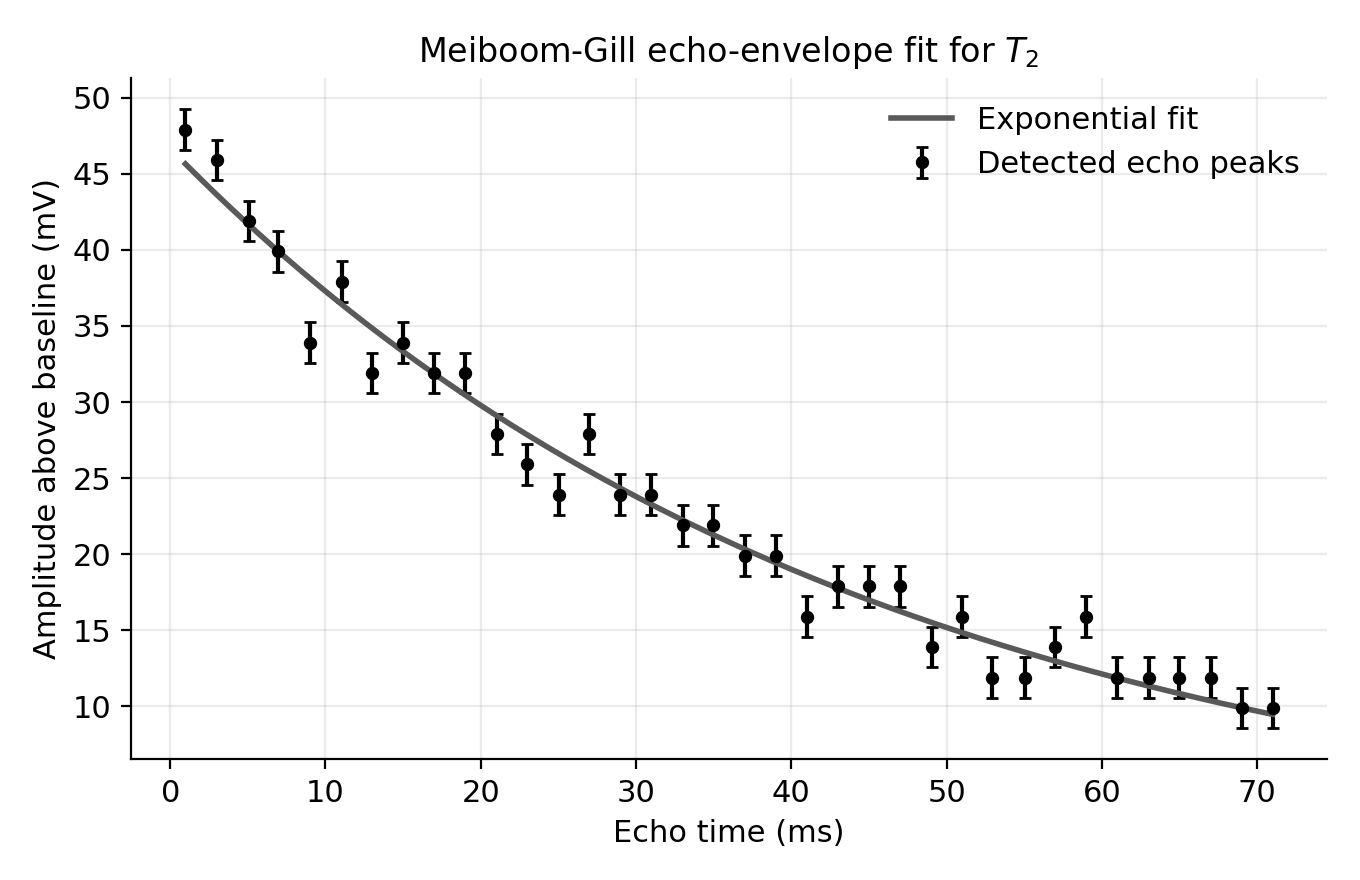
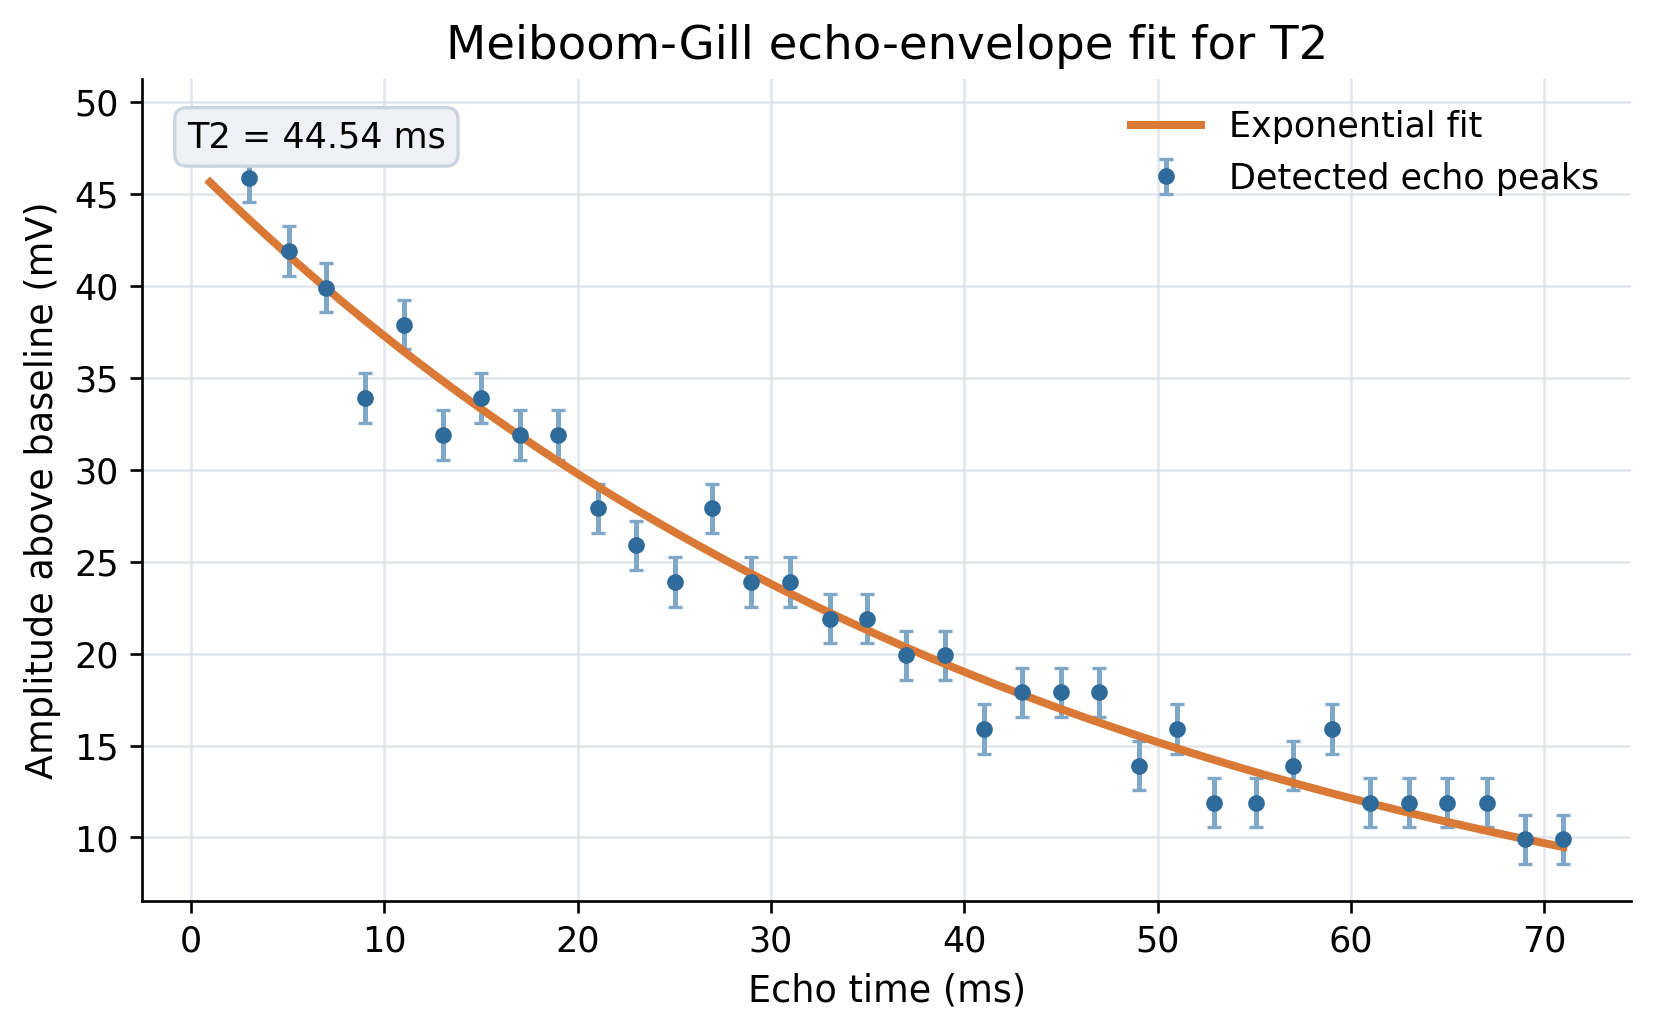
Polish README analysis figures

diff --git a/src/pnmr_showcase/plotting.py b/src/pnmr_showcase/plotting.py
@@ -7,22 +7,37 @@ import numpy as np
 
 from .models import t1_magnitude_model, t2_envelope_model
 
+BLUE = "#2F6B9A"
+ORANGE = "#D97935"
+GREEN = "#5B8C5A"
+GRAY = "#4A5568"
+LIGHT = "#EEF2F6"
+
 
 def set_style() -> None:
     plt.rcParams.update(
         {
             "figure.dpi": 140,
-            "savefig.dpi": 200,
-            "font.size": 11,
+            "savefig.dpi": 240,
+            "font.family": "DejaVu Sans",
+            "font.size": 10.5,
             "axes.spines.top": False,
             "axes.spines.right": False,
             "axes.grid": True,
-            "grid.alpha": 0.25,
+            "grid.color": "#D9DEE7",
+            "grid.linewidth": 0.8,
+            "grid.alpha": 0.75,
             "legend.frameon": False,
-            "axes.titlesize": 12,
+            "axes.titlesize": 14,
             "axes.labelsize": 11,
         }
     )
+
+
+def save_figure(fig: plt.Figure, save_path: Path) -> None:
+    fig.tight_layout()
+    fig.savefig(save_path, bbox_inches="tight", facecolor="white")
+    plt.close(fig)
 
 
 def plot_t1_fit(
@@ -37,16 +52,23 @@ def plot_t1_fit(
     grid = np.linspace(np.min(delays_ms), np.max(delays_ms), 500)
     fit = t1_magnitude_model(grid, *fit_params)
 
-    fig, ax = plt.subplots(figsize=(6.6, 4.4))
-    ax.errorbar(delays_ms, amplitudes_mV, yerr=sigma_mV, fmt="o", color="black", capsize=3, label="Measured amplitudes")
-    ax.plot(grid, fit, color="0.35", lw=2.0, label="Weighted nonlinear fit")
+    fig, ax = plt.subplots(figsize=(7.0, 4.4))
+    ax.errorbar(delays_ms, amplitudes_mV, yerr=sigma_mV, fmt="o", color=BLUE, ecolor="#7FA7C7", capsize=3, label="Measured amplitudes")
+    ax.plot(grid, fit, color=ORANGE, lw=2.4, label="Weighted nonlinear fit")
     ax.set_xlabel("Delay $\\tau$ (ms)")
     ax.set_ylabel("Baseline-subtracted amplitude (mV)")
-    ax.set_title("Inversion-recovery fit for $T_1$")
+    ax.set_title("Inversion-recovery fit for T1")
+    ax.text(
+        0.03,
+        0.95,
+        f"T1 = {fit_params[2]:.2f} ms",
+        transform=ax.transAxes,
+        ha="left",
+        va="top",
+        bbox={"boxstyle": "round,pad=0.35", "facecolor": LIGHT, "edgecolor": "#CBD5E1"},
+    )
     ax.legend()
-    fig.tight_layout()
-    fig.savefig(save_path)
-    plt.close(fig)
+    save_figure(fig, save_path)
 
 
 def plot_t2_fit(
@@ -61,16 +83,23 @@ def plot_t2_fit(
     grid = np.linspace(np.min(time_ms), np.max(time_ms), 600)
     fit = t2_envelope_model(grid, *fit_params)
 
-    fig, ax = plt.subplots(figsize=(6.8, 4.4))
-    ax.errorbar(time_ms, amplitude_mV, yerr=sigma_mV, fmt="o", ms=3.8, color="black", capsize=2, label="Detected echo peaks")
-    ax.plot(grid, fit, color="0.35", lw=2.0, label="Exponential fit")
+    fig, ax = plt.subplots(figsize=(7.0, 4.4))
+    ax.errorbar(time_ms, amplitude_mV, yerr=sigma_mV, fmt="o", ms=4, color=BLUE, ecolor="#7FA7C7", capsize=2, label="Detected echo peaks")
+    ax.plot(grid, fit, color=ORANGE, lw=2.4, label="Exponential fit")
     ax.set_xlabel("Echo time (ms)")
     ax.set_ylabel("Amplitude above baseline (mV)")
-    ax.set_title("Meiboom-Gill echo-envelope fit for $T_2$")
+    ax.set_title("Meiboom-Gill echo-envelope fit for T2")
+    ax.text(
+        0.03,
+        0.95,
+        f"T2 = {fit_params[1]:.2f} ms",
+        transform=ax.transAxes,
+        ha="left",
+        va="top",
+        bbox={"boxstyle": "round,pad=0.35", "facecolor": LIGHT, "edgecolor": "#CBD5E1"},
+    )
     ax.legend()
-    fig.tight_layout()
-    fig.savefig(save_path)
-    plt.close(fig)
+    save_figure(fig, save_path)
 
 
 def plot_waveform_with_peaks(
@@ -82,17 +111,15 @@ def plot_waveform_with_peaks(
 ) -> None:
     set_style()
     save_path = Path(save_path)
-    fig, ax = plt.subplots(figsize=(7.2, 4.5))
-    ax.plot(time_ms, amplitude_mV, color="0.20", lw=0.8, label="Baseline-subtracted waveform")
-    ax.scatter(peak_times_ms, peak_amplitudes_mV, color="black", s=18, zorder=3, label="Detected peaks")
+    fig, ax = plt.subplots(figsize=(8.0, 4.5))
+    ax.plot(time_ms, amplitude_mV, color=GRAY, lw=0.8, alpha=0.9, label="Baseline-subtracted waveform")
+    ax.scatter(peak_times_ms, peak_amplitudes_mV, color=ORANGE, s=22, zorder=3, label=f"Detected peaks (n={len(peak_times_ms)})")
     ax.set_xlim(-2, 75)
     ax.set_xlabel("Time (ms)")
     ax.set_ylabel("Amplitude above baseline (mV)")
-    ax.set_title("Echo detection on the raw scope waveform")
+    ax.set_title("Echo detection on raw scope waveform")
     ax.legend(loc="upper right")
-    fig.tight_layout()
-    fig.savefig(save_path)
-    plt.close(fig)
+    save_figure(fig, save_path)
 
 
 def plot_results_dashboard(
@@ -108,22 +135,38 @@ def plot_results_dashboard(
 ) -> None:
     set_style()
     save_path = Path(save_path)
-    fig, axes = plt.subplots(1, 2, figsize=(10.6, 4.2))
+    fig, axes = plt.subplots(1, 2, figsize=(11.0, 4.4))
 
     grid_t1 = np.linspace(np.min(delays_ms), np.max(delays_ms), 500)
-    axes[0].errorbar(delays_ms, t1_amplitudes_mV, yerr=t1_sigma_mV, fmt="o", color="black", capsize=2)
-    axes[0].plot(grid_t1, t1_magnitude_model(grid_t1, *t1_params), color="0.35", lw=2)
+    axes[0].errorbar(delays_ms, t1_amplitudes_mV, yerr=t1_sigma_mV, fmt="o", color=BLUE, ecolor="#7FA7C7", capsize=2)
+    axes[0].plot(grid_t1, t1_magnitude_model(grid_t1, *t1_params), color=ORANGE, lw=2.4)
     axes[0].set_xlabel("Delay $\\tau$ (ms)")
     axes[0].set_ylabel("Amplitude (mV)")
-    axes[0].set_title("$T_1$ inversion recovery")
+    axes[0].set_title("T1 inversion recovery")
+    axes[0].text(
+        0.04,
+        0.94,
+        f"T1 = {t1_params[2]:.2f} ms",
+        transform=axes[0].transAxes,
+        ha="left",
+        va="top",
+        bbox={"boxstyle": "round,pad=0.35", "facecolor": LIGHT, "edgecolor": "#CBD5E1"},
+    )
 
     grid_t2 = np.linspace(np.min(t2_time_ms), np.max(t2_time_ms), 600)
-    axes[1].errorbar(t2_time_ms, t2_amplitudes_mV, yerr=t2_sigma_mV, fmt="o", ms=3.2, color="black", capsize=2)
-    axes[1].plot(grid_t2, t2_envelope_model(grid_t2, *t2_params), color="0.35", lw=2)
+    axes[1].errorbar(t2_time_ms, t2_amplitudes_mV, yerr=t2_sigma_mV, fmt="o", ms=3.4, color=BLUE, ecolor="#7FA7C7", capsize=2)
+    axes[1].plot(grid_t2, t2_envelope_model(grid_t2, *t2_params), color=ORANGE, lw=2.4)
     axes[1].set_xlabel("Echo time (ms)")
     axes[1].set_ylabel("Amplitude (mV)")
-    axes[1].set_title("$T_2$ echo envelope")
+    axes[1].set_title("T2 echo envelope")
+    axes[1].text(
+        0.04,
+        0.94,
+        f"T2 = {t2_params[1]:.2f} ms",
+        transform=axes[1].transAxes,
+        ha="left",
+        va="top",
+        bbox={"boxstyle": "round,pad=0.35", "facecolor": LIGHT, "edgecolor": "#CBD5E1"},
+    )
 
-    fig.tight_layout()
-    fig.savefig(save_path)
-    plt.close(fig)
+    save_figure(fig, save_path)

diff --git a/README.md b/README.md
@@ -38,11 +38,11 @@ measurements.
 
 **Summary dashboard**
 
-![Results dashboard](figures/results_dashboard.png)
+<img src="figures/results_dashboard.png" alt="PNMR T1 and T2 results dashboard" width="820">
 
 **Echo detection on the raw waveform**
 
-![Waveform with detected peaks](figures/t2_waveform_with_peaks.png)
+<img src="figures/t2_waveform_with_peaks.png" alt="Echo detection on raw waveform" width="820">
 
 ## Analysis workflow
 
